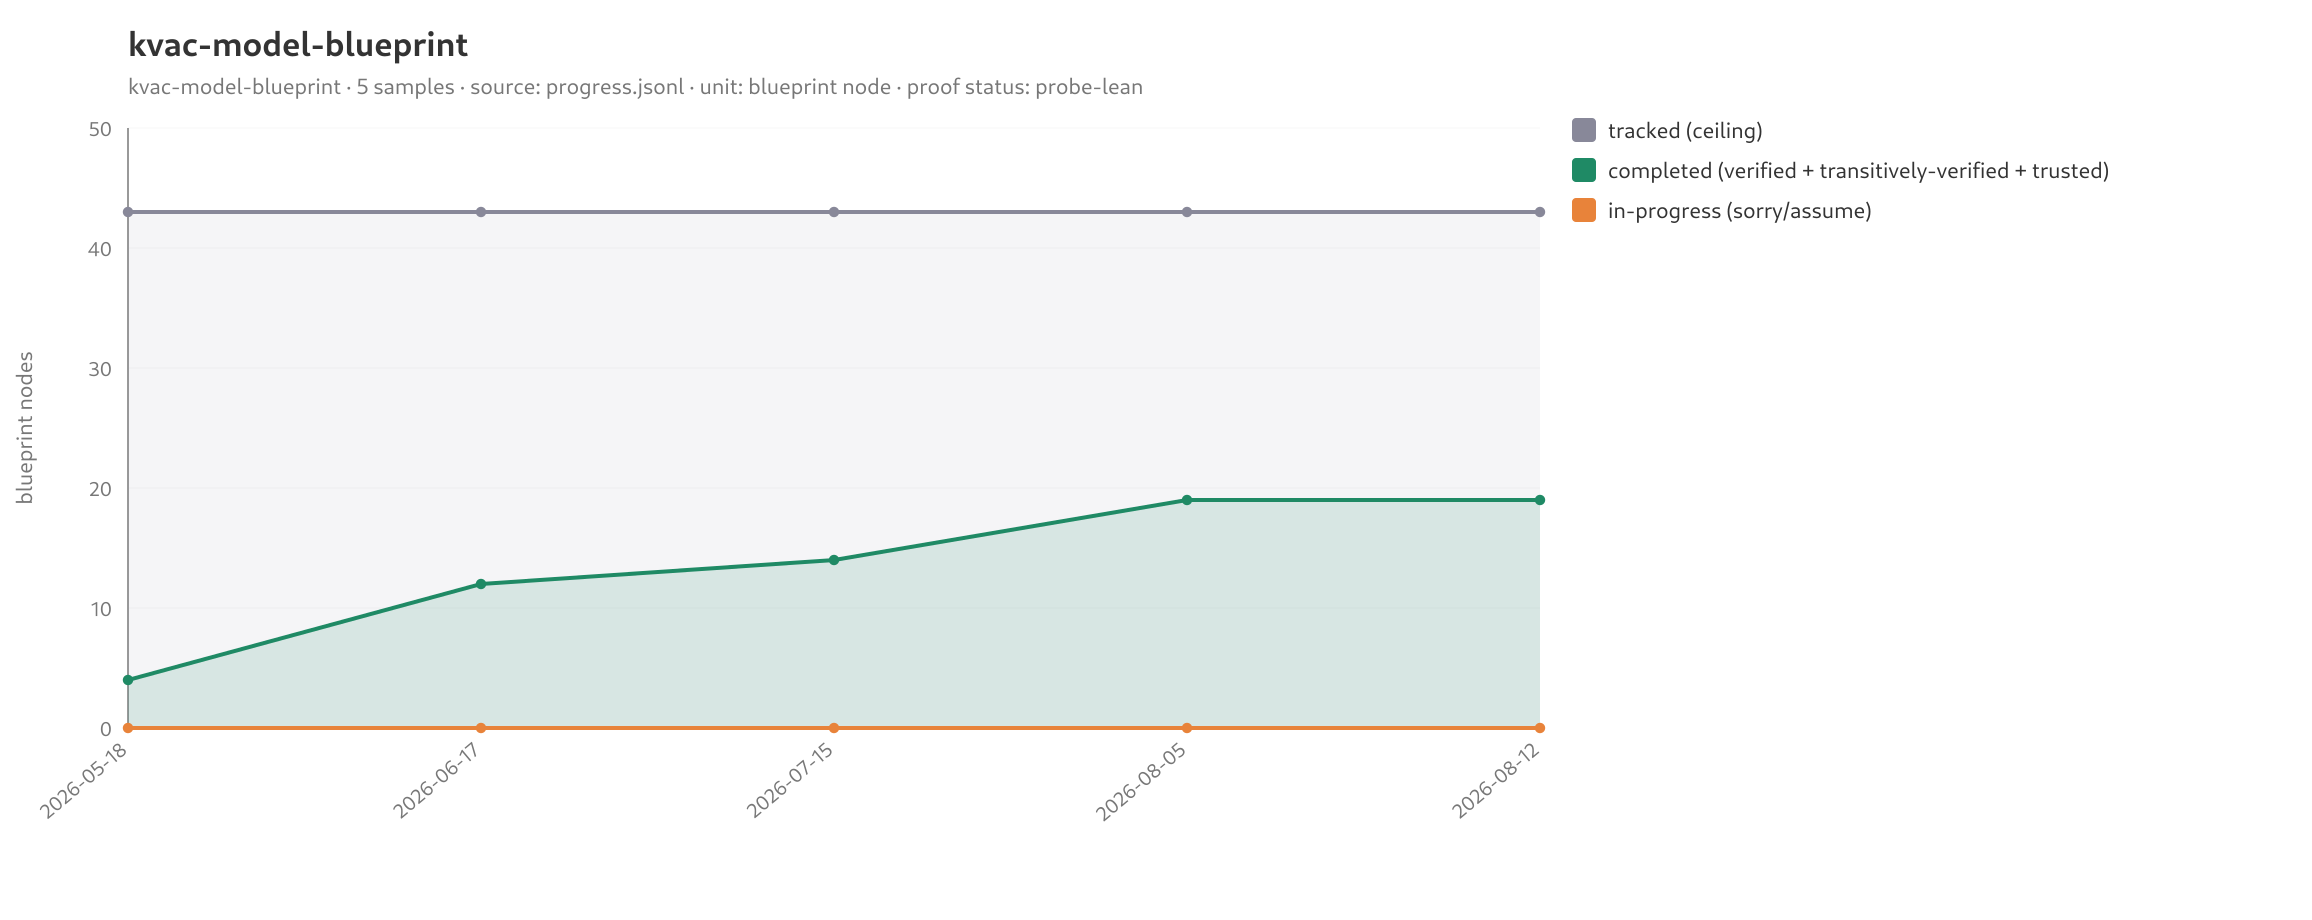
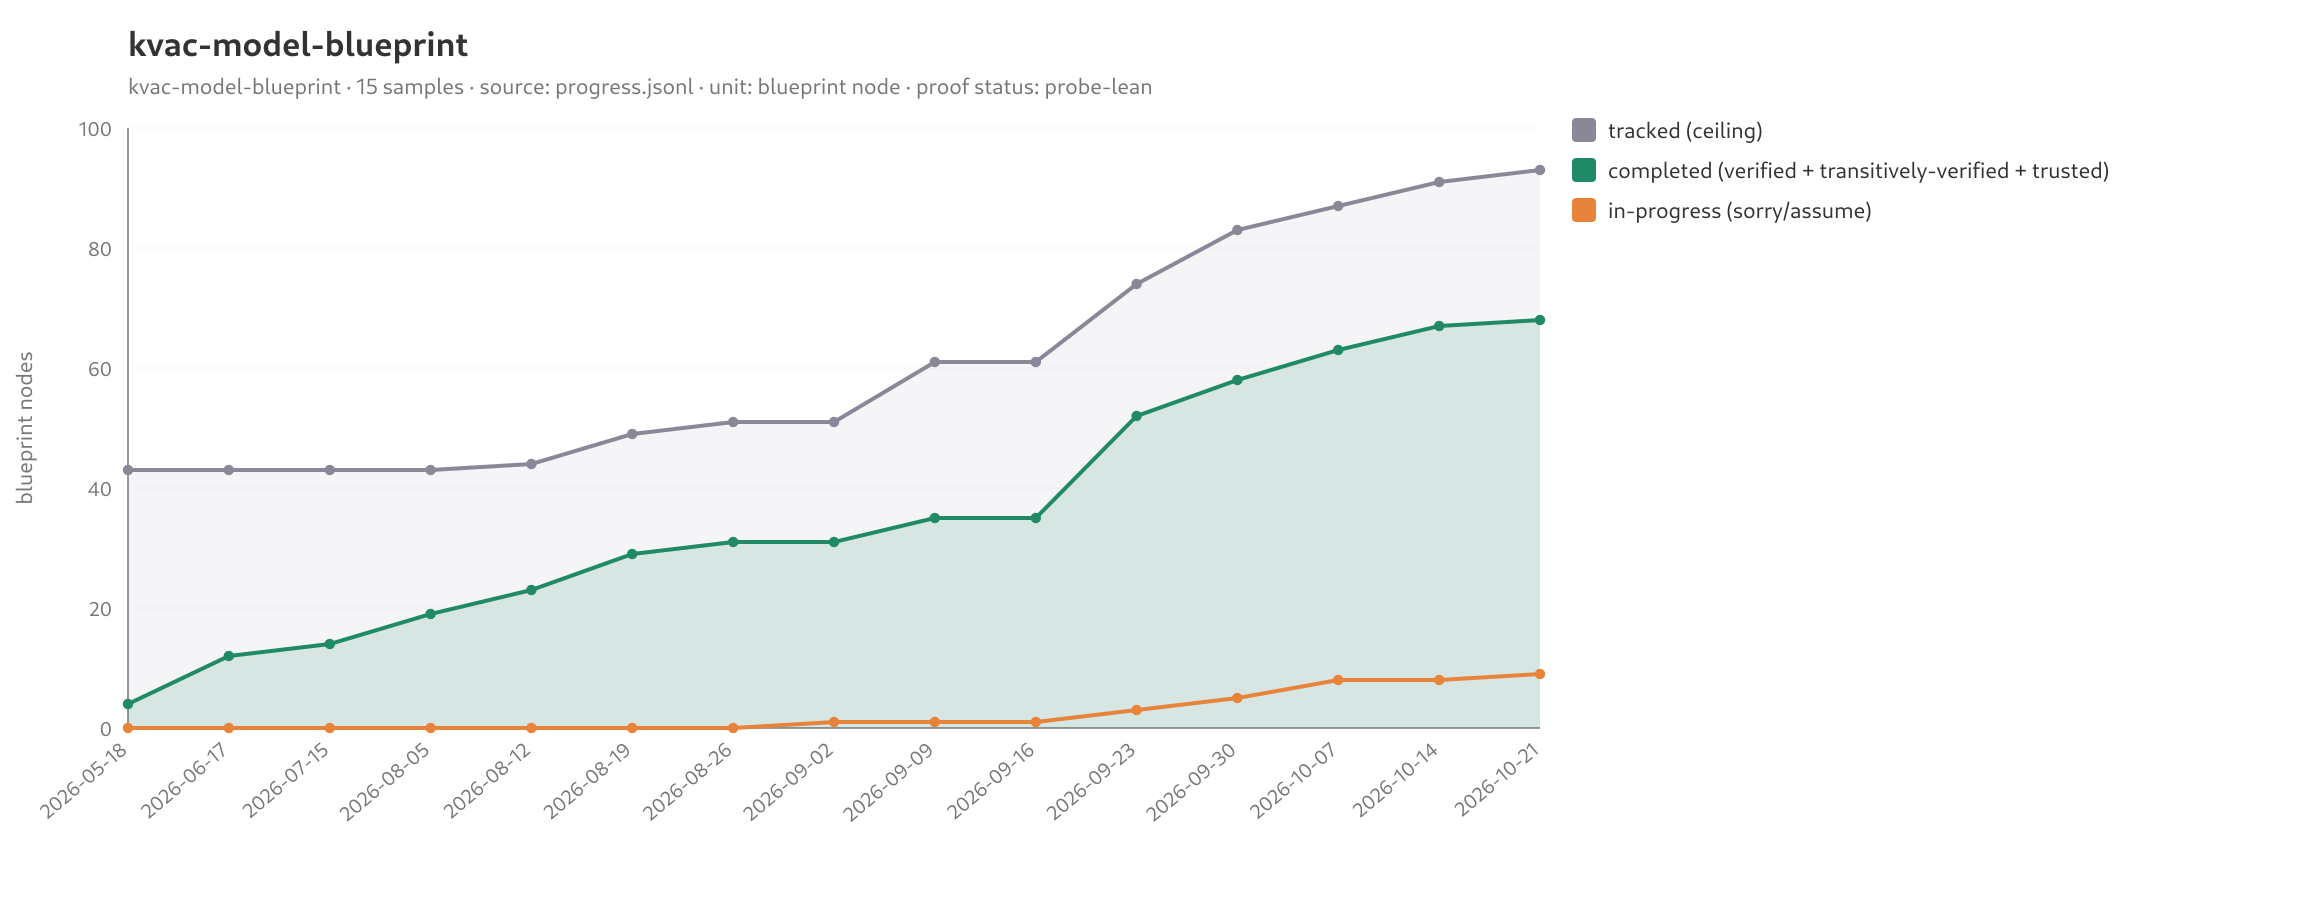
data(progress-history): refresh secure-messaging and KVAC, add PQXDH-model
secure-messaging gets 6 weekly samples (2026-09-16 to 2026-10-21) and KVAC
gets 10 (2026-08-12 to 2026-10-21). The new samples use probe-leanblueprint
0.10.0 and probe-lean 0.21.0. A resample of the last committed commit of
each series (KVAC 1002a012, secure-messaging d618450) with these probes
gave the same counts as the committed 0.3.0 rows, so the older rows stay.
The KVAC 08-12 row moves from 1002a012 (a mid-week HEAD snapshot) to
287ef406, the commit the weekly grid selects.

PQXDH-model is new: 4 weekly samples, 2026-07-29 to 2026-09-09 (the repo
has no commits after 2026-09-08).

From 983f650 (KVAC) and f862593 (PQXDH) on, both repos have a root
BlueprintMain.lean, and those samples must run without --verso-render-cmd.
data/README.md records this. The charts are regenerated.

diff --git a/tools/verification-progress-history/data/README.md b/tools/verification-progress-history/data/README.md
@@ -36,7 +36,8 @@ history walk (see the run command in the [tool README](../README.md#run)). The
 | `curve25519-dalek-lean-verify/` | Aeneas | `progress_history.py --pipeline aeneas --since 2026-03-11 --cadence monthly` | Chart: yes. Series: rerun sampler (floor: Lean >= v4.28.0-rc1 and `aeneas-config.yml`). |
 | `secure-messaging/` | leanblueprint | `progress_history.py --pipeline leanblueprint --since 2026-06-24 --cadence weekly --branch origin/main`; sampled off `main`, so pass `--branch` — the default ref is the work-clone's `origin/HEAD`, i.e. whatever branch the source checkout was on. No `--verso-render-cmd` from `a7d1690` (2026-09-07) on: the repo's root `BlueprintMain.lean` makes probe-leanblueprint's default `lake exe vbp build` work. Earlier commits still need `--verso-render-cmd scripts/render-docs-site.sh`. `depgraph.*`/`insights.txt` from one commit's extract | Chart: yes; step-by-step in [`secure-messaging/update-progress.md`](secure-messaging/update-progress.md). Graph/insights: need an extract (not committed). |
 | `kvac-model-from-probe-lean/` | lean | `progress_history.py --pipeline lean --cadence monthly` over KVAC-model | Chart: yes, including `--split`. Series: rerun sampler. |
-| `kvac-model-blueprint/` | leanblueprint | Projected history through 2026-07-15 (`tool: projection`; see [`../leanblueprint-metrics.md`](../leanblueprint-metrics.md)) spliced with real per-commit samples from 2026-08-05 on: `progress_history.py --pipeline leanblueprint --cadence weekly --verso-render-cmd <abs>/scripts/build-blueprint.sh` over KVAC-model. The render path must be absolute: KVAC's Verso project lives under `docs/`, so probe-leanblueprint runs the cmd with cwd `docs/` and a repo-relative `scripts/...` fails (127). Real samples need Lean ≥ v4.30.0 (the versoBlueprint port); earlier commits have no blueprint to read, which is what the projection covers. | Chart: yes, including `--split`. Real points: rerun sampler. |
+| `kvac-model-blueprint/` | leanblueprint | Projected history through 2026-07-15 (`tool: projection`; see [`../leanblueprint-metrics.md`](../leanblueprint-metrics.md)) spliced with real per-commit samples from 2026-08-05 on: `progress_history.py --pipeline leanblueprint --cadence weekly --verso-render-cmd <abs>/scripts/build-blueprint.sh` over KVAC-model. The render path must be absolute: KVAC's Verso project lives under `docs/`, so probe-leanblueprint runs the cmd with cwd `docs/` and a repo-relative `scripts/...` fails (127). Real samples need Lean ≥ v4.30.0 (the versoBlueprint port); earlier commits have no blueprint to read, which is what the projection covers. From `983f650` (2026-09-09) on, the repo has a root `BlueprintMain.lean`: drop `--verso-render-cmd` there, because `build-blueprint.sh` still writes to `docs/_out/site` and probe-leanblueprint then finds no manifest. | Chart: yes, including `--split`. Real points: rerun sampler. |
+| `pqxdh-model/` | leanblueprint | `progress_history.py --pipeline leanblueprint --cadence weekly --branch origin/main` over PQXDH-model (2026-07-27 to 2026-09-08, Lean v4.30.0). Before `f862593` (the last commit), pass `--verso-render-cmd 'BLUEPRINT_PROGRESS_HISTORY_SEED=0 scripts/render-docs-site.sh'`; from `f862593` on, the root `BlueprintMain.lean` makes the default `lake exe vbp build` work. | Chart: yes. Series: rerun sampler. |
 | `kvac-model/` | leanblueprint | `plot_depgraph.py` / `blueprint_insights.py` on KVAC's extract at commit `ab91ef60` | Graph/insights only. Need the extract (not committed) to regenerate. |
 | `all-blueprints/` | leanblueprint | `blueprint_dashboard.py` over several extracts | Need the extracts (not committed) to regenerate. |
 | `verso-comparison/` | leanblueprint | our graph/insights vs verso-blueprint's published pages, four reference blueprints at their pinned commits; see [`../guides/verso-blueprint-comparison.md`](../guides/verso-blueprint-comparison.md) | Our side: need the extracts. verso side: screenshots of the live pages. |

diff --git a/tools/verification-progress-history/data/secure-messaging/update-progress.md b/tools/verification-progress-history/data/secure-messaging/update-progress.md
@@ -6,11 +6,11 @@ Run everything from the tool directory:
 cd tools/verification-progress-history
 ```
 
-Data lives in `data/secure-messaging/`. Last recorded sample: **2026-09-09**
-(`progress.jsonl`, 12 rows). Sampling re-runs the real verifier per commit, so it
+Data lives in `data/secure-messaging/`. Last recorded sample: **2026-10-21**
+(`progress.jsonl`, 18 rows). Sampling re-runs the real verifier per commit, so it
 is slow (~11–18 min/commit here); plotting is free.
 
-The committed series is **weekly** (Wednesday-anchored: 2026-06-24 … 2026-09-09)
+The committed series is **weekly** (Wednesday-anchored: 2026-06-24 … 2026-10-21)
 and sampled off `main`, so extend it with `--cadence weekly --branch origin/main`
 (the default ref is the work-clone's `origin/HEAD`, which follows whatever branch
 the source checkout was on).
@@ -30,7 +30,7 @@ week with no new commit adds nothing:
 ```bash
 python3 progress_history.py <repo> \
   --pipeline leanblueprint --cadence weekly --branch origin/main \
-  --since 2026-09-09 --resume \
+  --since 2026-10-21 --resume \
   --work-clone /tmp/vph-secure-messaging \
   --dep-cache-dir /tmp/vph-depcache \
   --sample-timeout 3600

diff --git a/tools/verification-progress-history/guides/history-burnup.md b/tools/verification-progress-history/guides/history-burnup.md
@@ -41,6 +41,8 @@ The other pipelines' committed series work the same way:
 | `data/dalek-verus/` | Verus | unit: `exec` atom |
 | `data/SparsePostQuantumRatchet-verify/` | Aeneas | unit: `exec` atom (`--translated` available) |
 | `data/secure-messaging/` | leanblueprint | unit: blueprint node, defs and thms pooled |
+| `data/kvac-model-blueprint/` | leanblueprint | unit: blueprint node, defs and thms pooled |
+| `data/pqxdh-model/` | leanblueprint | unit: blueprint node, defs and thms pooled |
 | `data/kvac-model-from-probe-lean/` | lean | unit: declaration, defs and thms pooled; ceiling labelled `total` |
 
 The unit is auto-detected from the records; you do not pass `--pipeline` to
